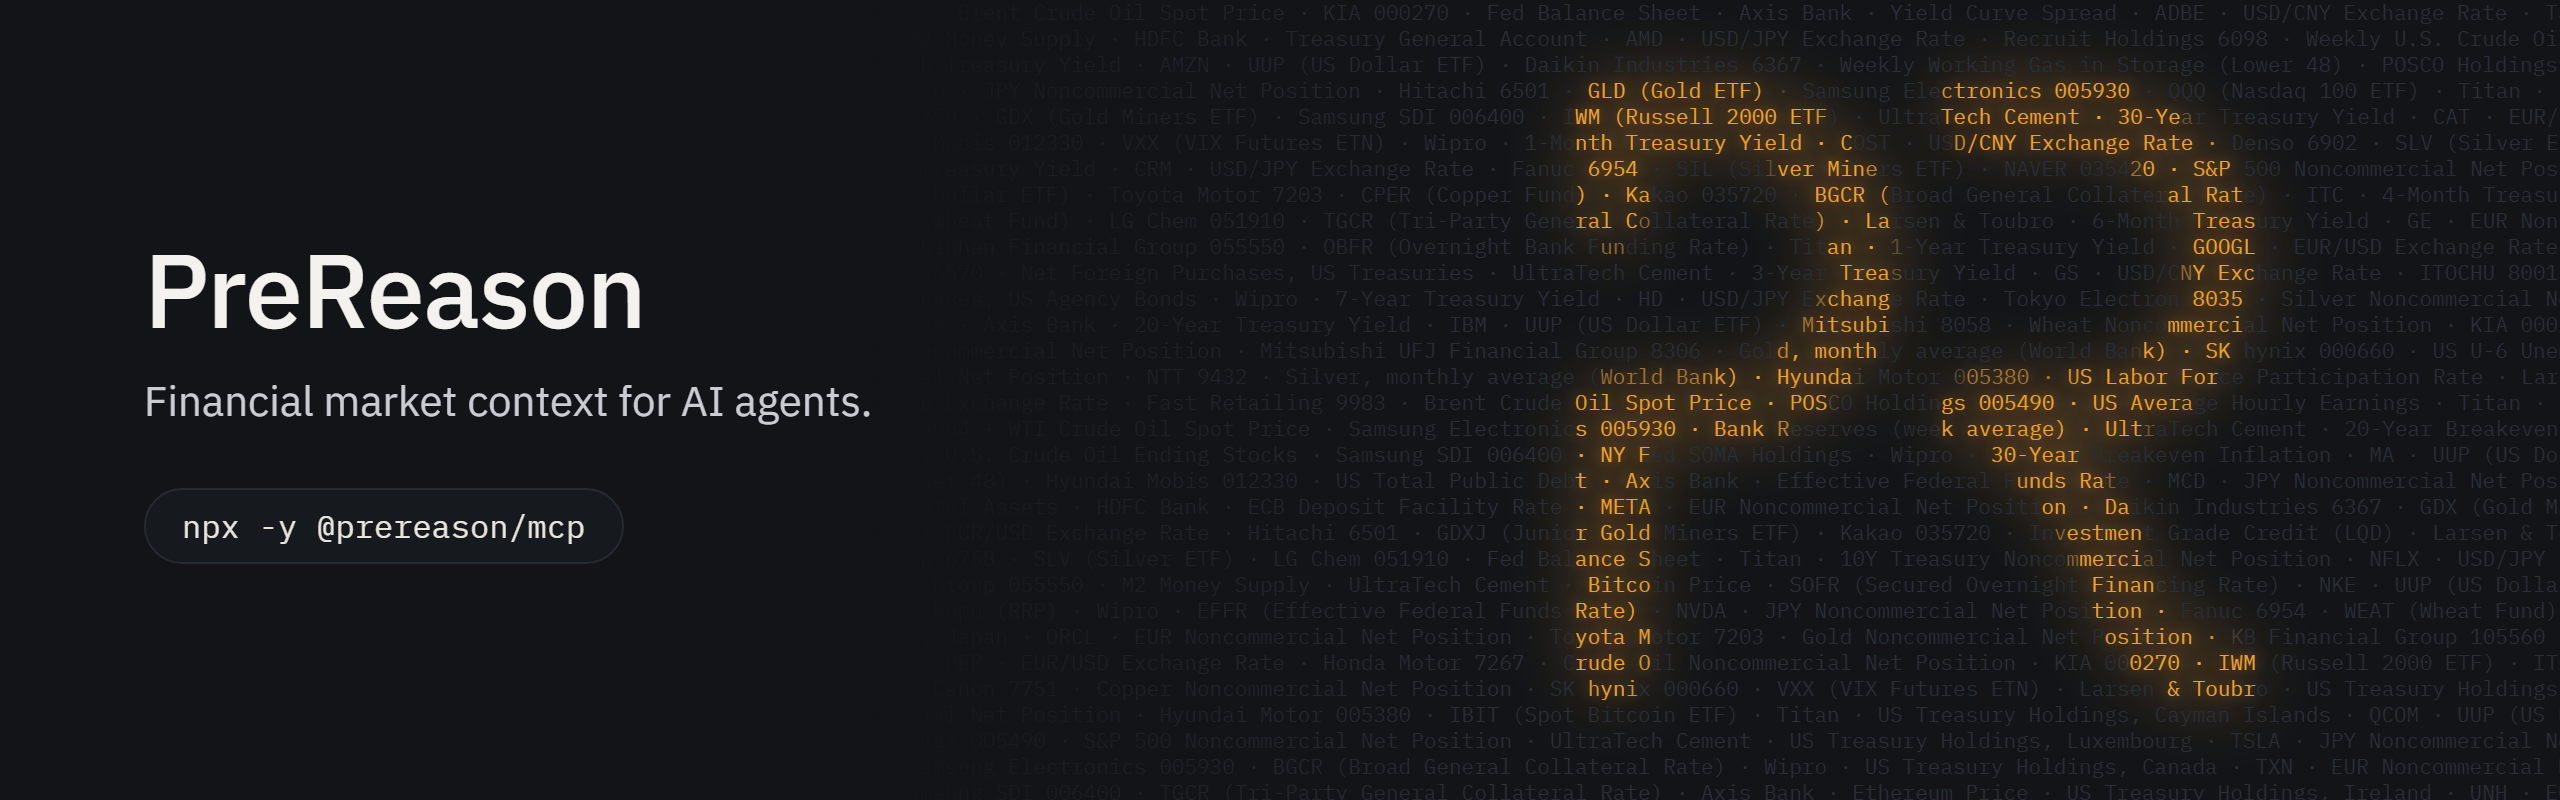
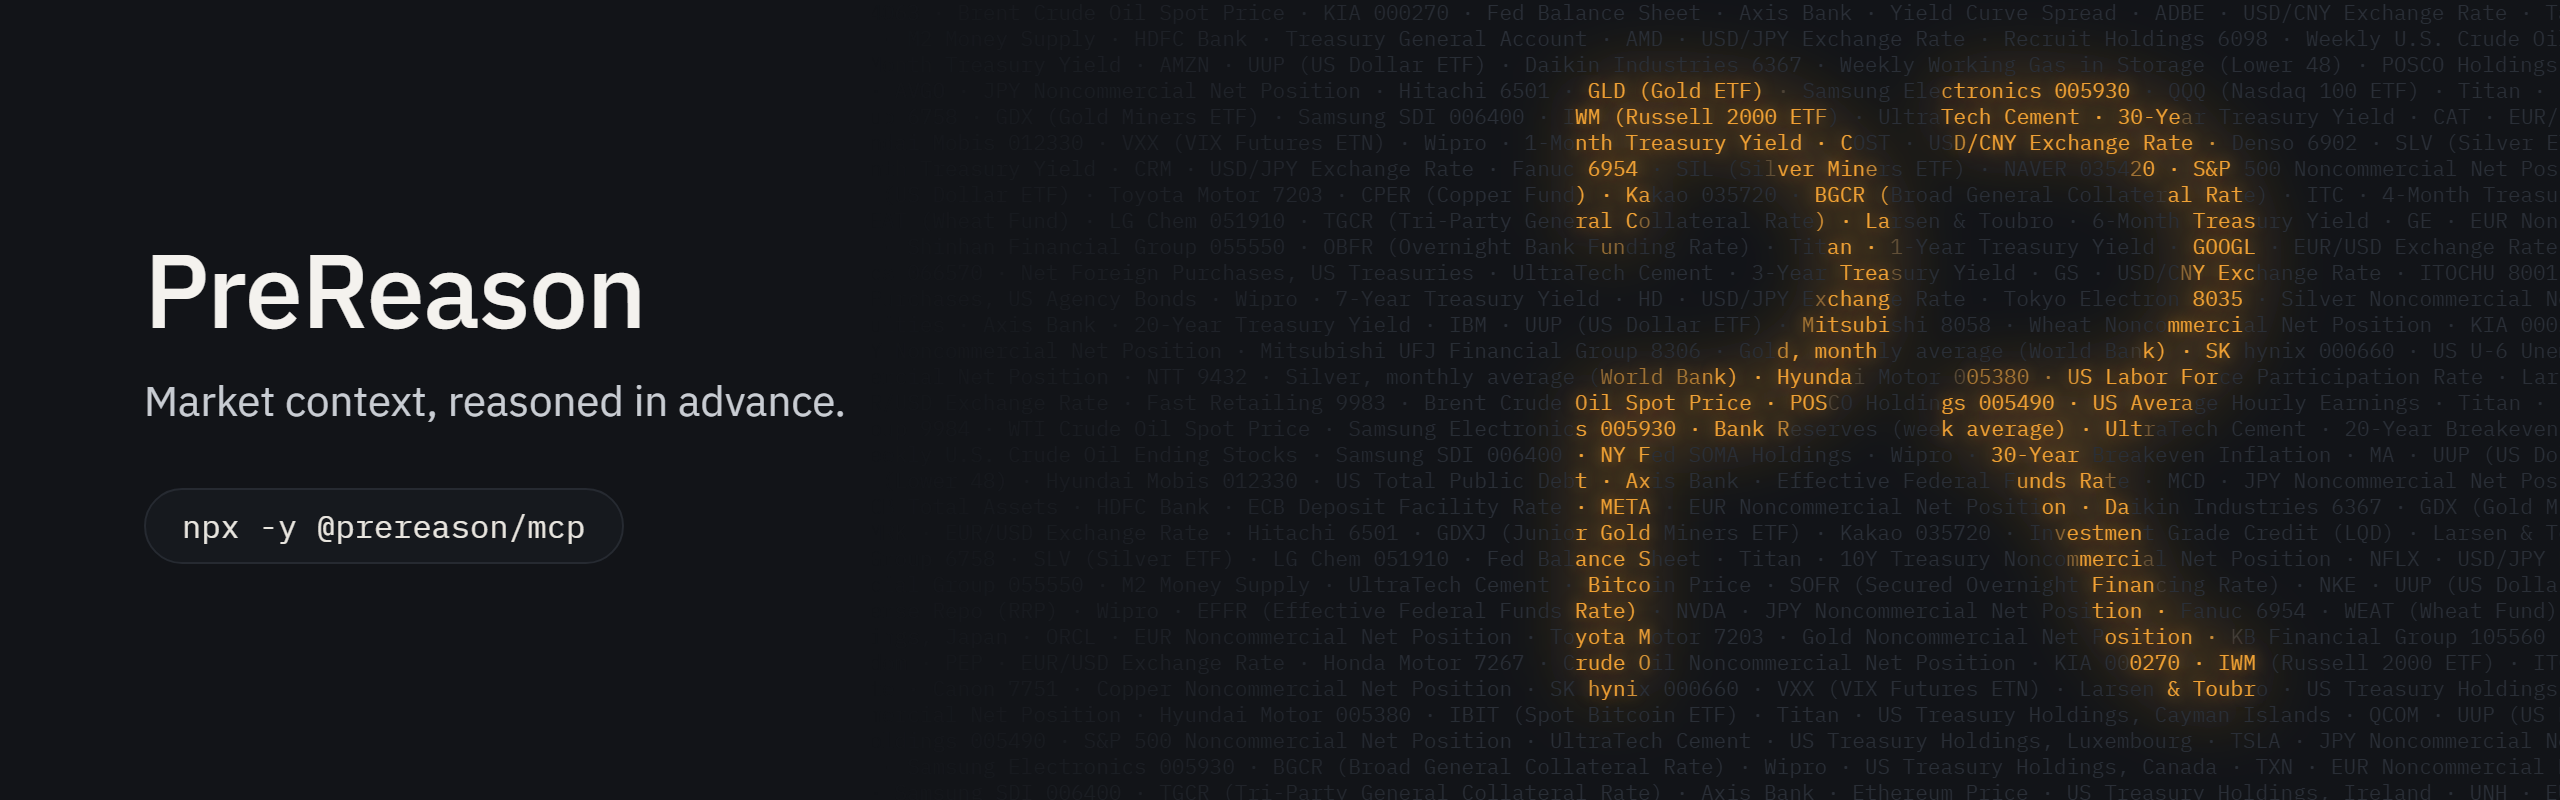
0.5.8: the README's opening spaces out "agent" ("Prereason first. Then answer."), carries a row of docs links, and the header picture reads "Market context, reasoned in advance."

Changed region(s): [[0.0625, 0.4688, 0.3438, 0.5312]]

diff --git a/bin/cli.js b/bin/cli.js
@@ -35,7 +35,7 @@ import { failureResponse } from '../lib/jsonrpc.js';
 
 // Keep in sync with package.json on each release
 const PKG_NAME = '@prereason/mcp';
-const PKG_VERSION = '0.5.7';
+const PKG_VERSION = '0.5.8';
 const DEFAULT_URL = 'https://api.prereason.com/api/mcp';
 const USER_AGENT = `prereason-mcp/${PKG_VERSION} node/${process.versions.node} (${platform()})`;
 

diff --git a/README.md b/README.md
@@ -1,6 +1,6 @@
 <div align="center">
 
-<img src="https://raw.githubusercontent.com/PreReason/mcp/main/assets/header.png" alt="PreReason, financial market context for AI agents: the PR mark lit over the names of the Treasury yields, currencies, commodities, macro series and companies it serves" width="100%">
+<img src="https://raw.githubusercontent.com/PreReason/mcp/main/assets/header.png" alt="PreReason, market context reasoned in advance: the PR mark lit over the names of the Treasury yields, currencies, commodities, macro series and companies it serves" width="100%">
 
 # @prereason/mcp
 
@@ -11,13 +11,15 @@
 [![Glama Score](https://glama.ai/mcp/servers/PreReason/mcp/badges/score.svg)](https://glama.ai/mcp/servers/PreReason/mcp)
 [![Smithery](https://img.shields.io/badge/Smithery-listed-7c3aed)](https://smithery.ai/servers/prereason/briefings)
 
-**Let your agent [prereason](https://www.prereason.com) before it answers.**
+**[Prereason](https://www.prereason.com) first. Then answer.**
 
 Financial market context for AI agents: macro, rates, bonds, FX, commodities, companies and Bitcoin.
 
+[Docs](https://www.prereason.com/docs#mcp-integration) · [Briefings](https://www.prereason.com/briefings) · [Company briefings](https://www.prereason.com/docs/company-briefings) · [Pricing](https://www.prereason.com/pricing) · [Get a key](https://www.prereason.com/signup)
+
 </div>
 
-Ask your agent where Treasury yields are. On its own, it reaches for a search result or a raw series and works out the rest by itself. When it prereasons, one `get_context` call brings back the context already worked out: the 30 year yield at 5.67% on 2026-10-07, the highest reading on the US Treasury's daily par yield curve since July 2001.
+Ask your AI where Treasury yields are. On its own, it reaches for a search result or a raw series and works out the rest by itself. When it prereasons, one `get_context` call brings back the context already worked out: the 30 year yield at 5.67% on 2026-10-07, the highest reading on the US Treasury's daily par yield curve since July 2001.
 
 <img src="https://raw.githubusercontent.com/PreReason/mcp/main/assets/briefing.png" alt="An agent asks where Treasury yields are and what the Fed last decided; get_context with briefing macro.rates answers with the 30 year and 10 year Treasury yields, 10 year breakeven inflation and the Fed funds target range, each with its date and its context, from a served answer of 2026-10-08" width="100%">
 
@@ -25,7 +27,7 @@ Ask your agent where Treasury yields are. On its own, it reaches for a search re
 
 - **Context, not raw numbers.** Each briefing arrives with the reading done: the trend over several windows, where a value sits in its own history, a company's rank among its peers and, where read, its own guidance.
 - **Every figure dated, every source named.** Your agent can say when a number is from and where it came from.
-- **One call, a whole briefing.** A briefing gathers the series a question needs, so your agent spends its turns on the answer rather than on lookups.
+- **One call, a whole briefing.** A briefing gathers the series a question needs, so the turns go to the answer rather than to lookups.
 - **The markets in one place.** Rates and Treasuries, the Fed, FX, commodities, macro, listed companies in the US, Japan, Korea and India, and Bitcoin.
 - **It describes; it never advises.** Briefings say what the data shows. They never say what to buy, sell or hold.
 - **Quick to set up.** One block of config for Claude, Cursor, Codex or VS Code, through the npm bridge or the remote server. The catalogue tools need no key; for the rest, the session gives you one link to approve in your browser, and the key arrives in the running session.
@@ -282,7 +284,7 @@ It used to depend on `@modelcontextprotocol/sdk` for two classes, a stdio transp
 
 ## Links
 
-- [Documentation](https://www.prereason.com/docs#mcp)
+- [Documentation](https://www.prereason.com/docs#mcp-integration)
 - [Sign Up](https://www.prereason.com/signup)
 - [API Discovery](https://www.prereason.com/.well-known/mcp/server.json)
 - [Terms of Service](https://www.prereason.com/terms)

diff --git a/CHANGELOG.md b/CHANGELOG.md
@@ -1,5 +1,12 @@
 # Changelog
 
+## 0.5.8 (2026-10-08)
+
+### Changed
+- The README's opening spaces out the word "agent": the tagline is "Prereason first. Then answer.", the example asks "your AI", "agent" stays in PreReason's one line and in one point of "Why prereason?", and the header picture's line reads "Market context, reasoned in advance." in place of repeating the one line.
+- A row of links under the one line: Docs, Briefings, Company briefings, Pricing and Get a key. The Links section's Documentation link now opens the MCP section (`#mcp-integration`; the page has no `#mcp`).
+- `server.json` registry version 0.8.2, npm package 0.5.8.
+
 ## 0.5.7 (2026-10-08)
 
 ### Changed
